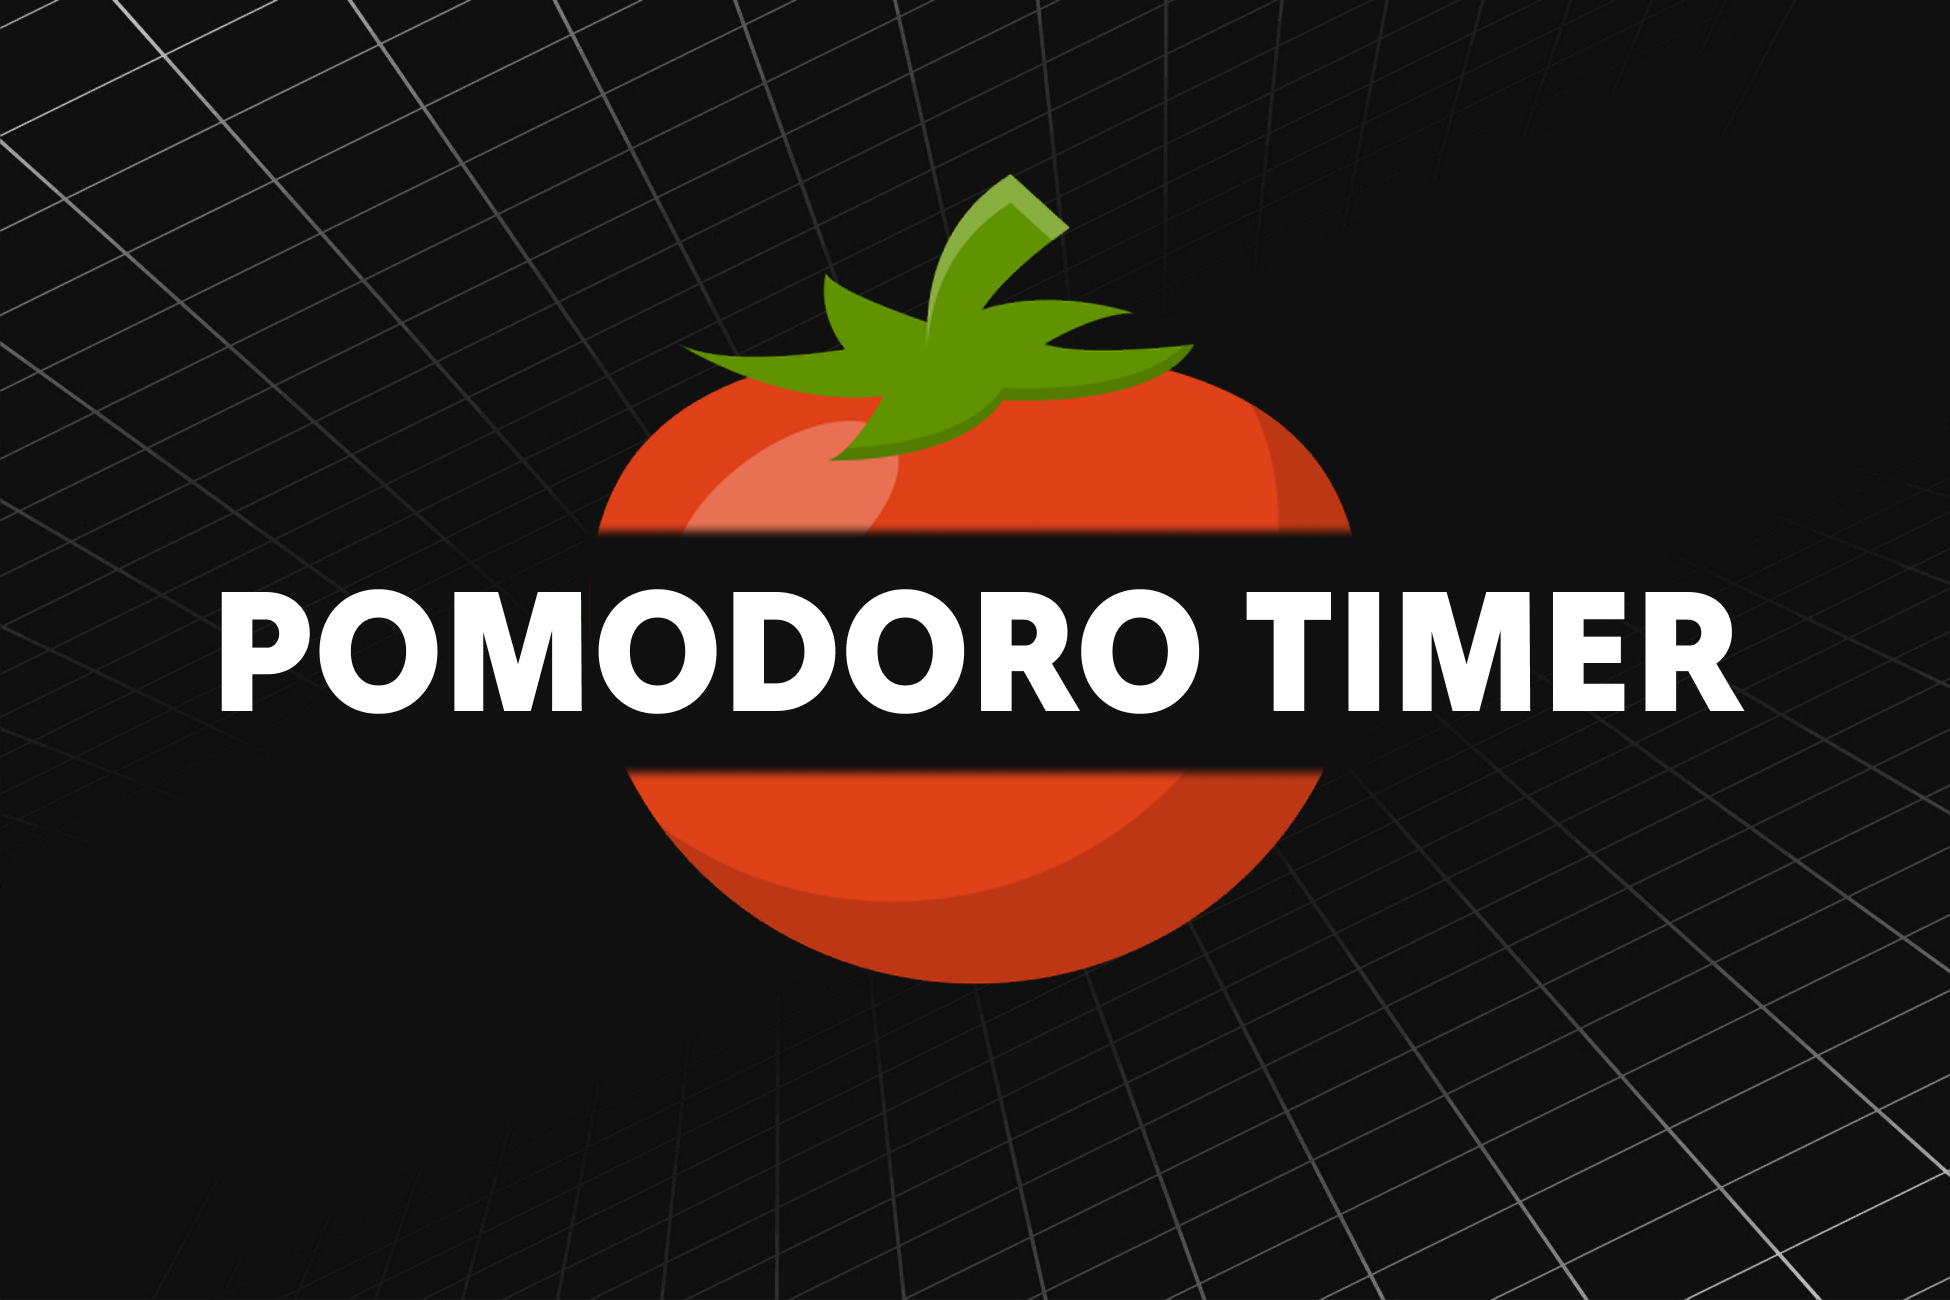
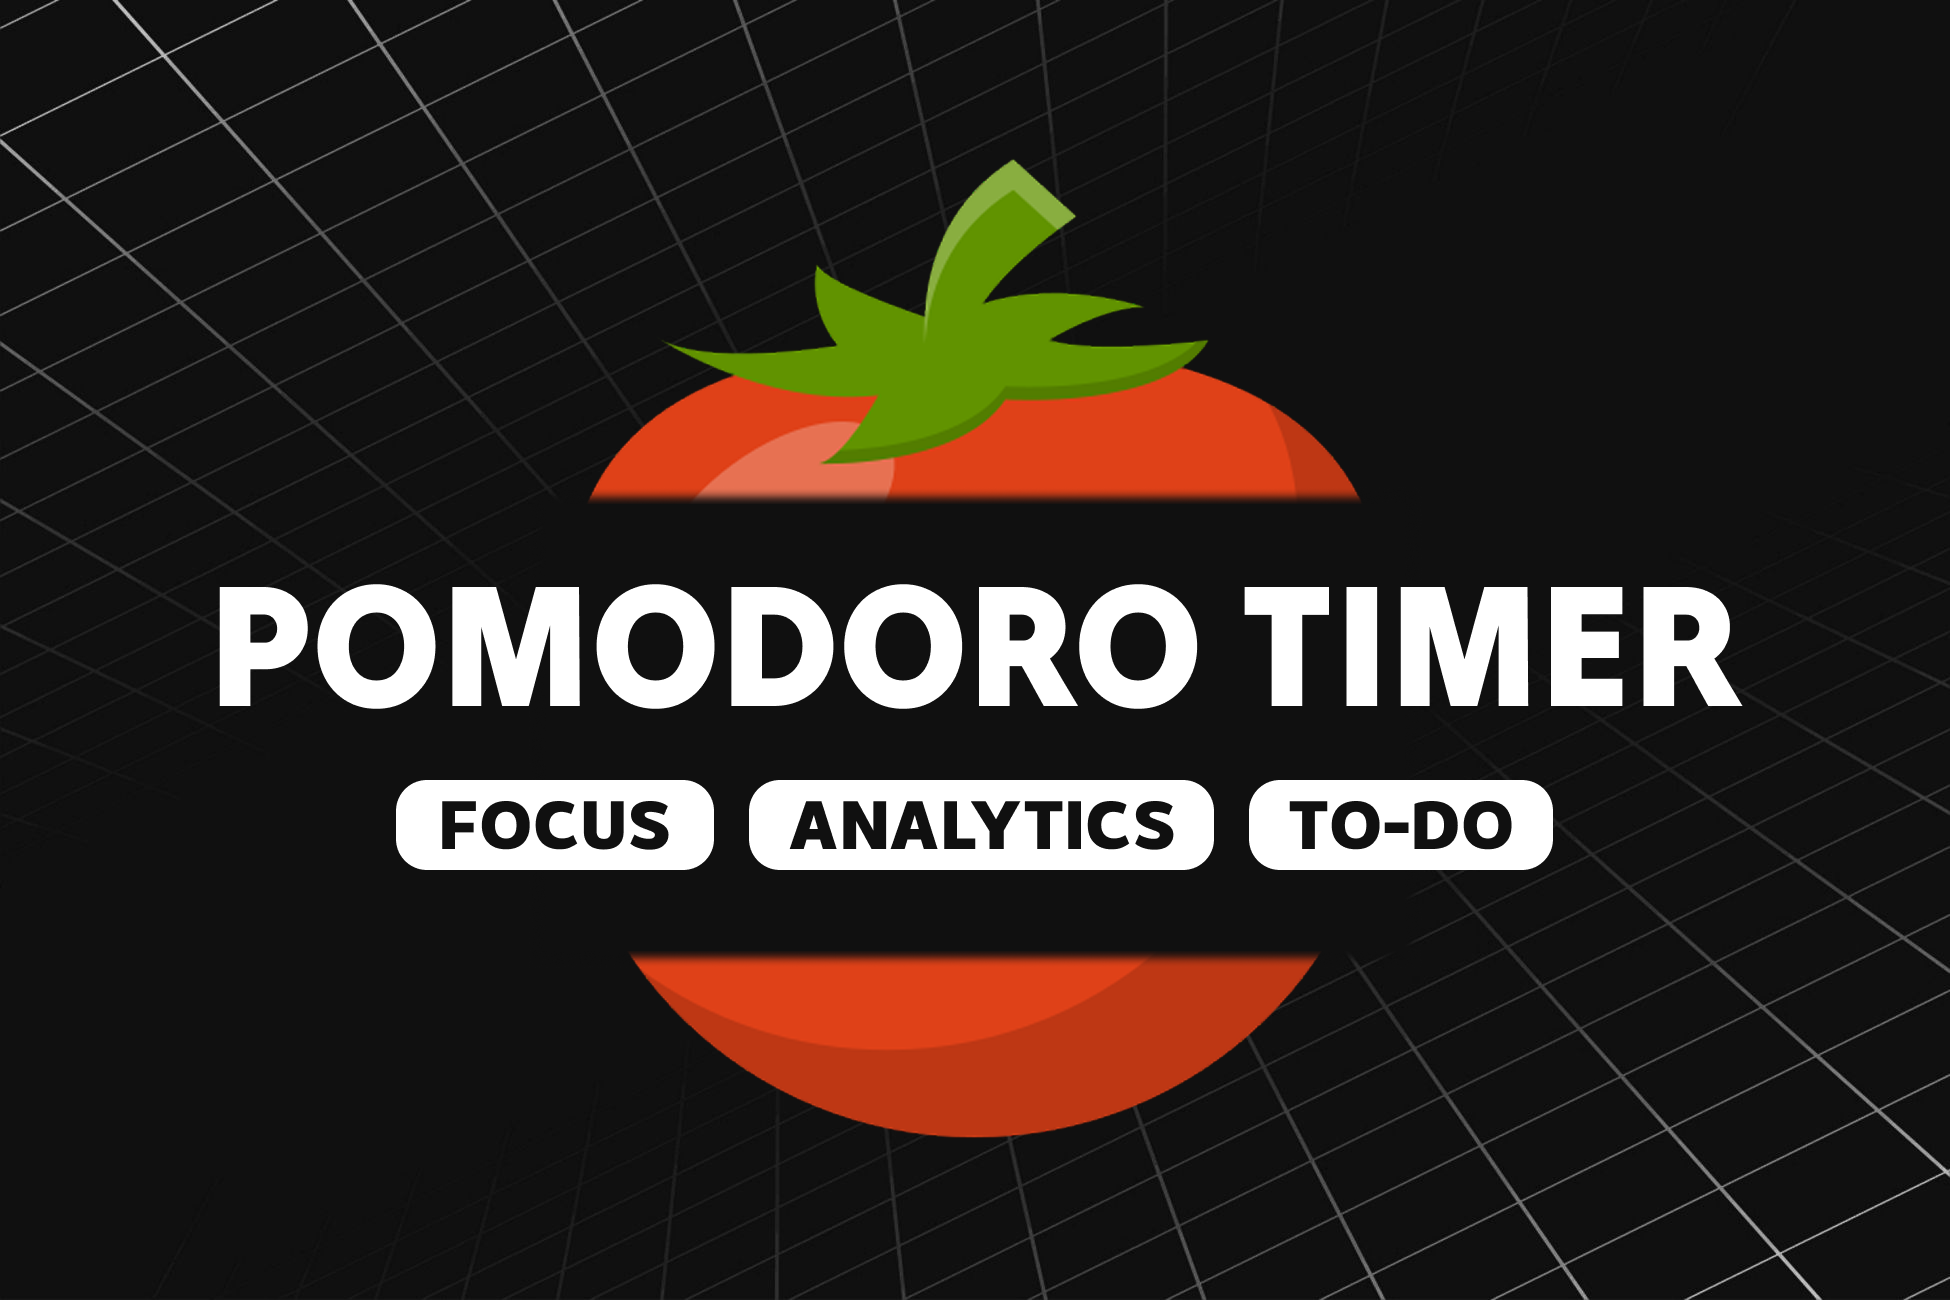
Commit 24

diff --git a/index.html b/index.html
@@ -14,7 +14,7 @@
 </head>
 <body>
 
-<!-- ================= LAST UPDATE 4.05.2026 ================= -->
+<!-- ================= LAST UPDATE 13.07.2026 ================= -->
 
 <!-- ================= HEADER ================= -->
 <header class="header">